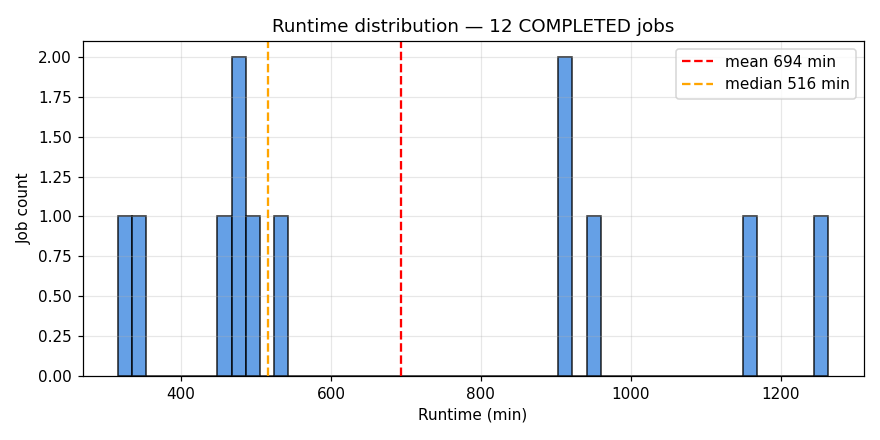
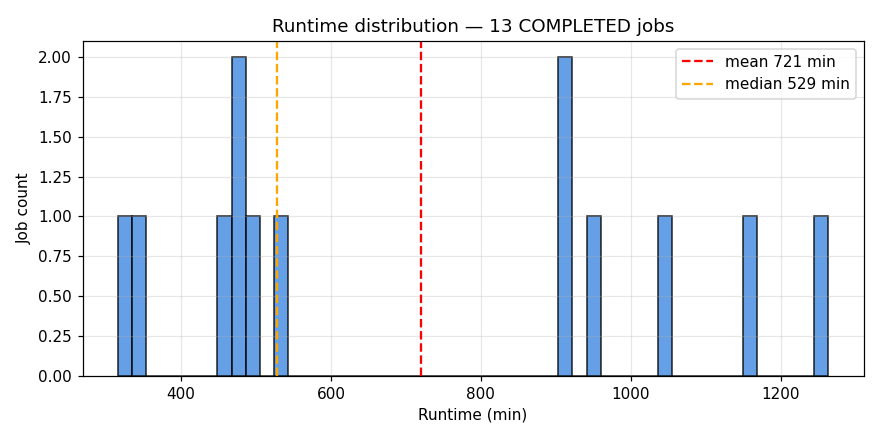
auto: 2026-09-24 11:00:16

diff --git a/index.html b/index.html
@@ -24,29 +24,29 @@ tr:nth-child(even) { background: #fafafa; }
 </style>
 </head><body>
 <h1>AF3 Campaign Dashboard</h1>
-<p class="stamp">Last updated: <strong>2026-09-24 09:59 EDT</strong> · regenerated on the cluster hourly · this page auto-reloads every 30 min</p>
+<p class="stamp">Last updated: <strong>2026-09-24 11:00 EDT</strong> · regenerated on the cluster hourly · this page auto-reloads every 30 min</p>
 
 <div class="cards">
-  <div class="card"><div class="v">829</div><div class="l">Total COMPLETED pairs</div></div>
-  <div class="card"><div class="v">568</div><div class="l">Done today</div></div>
-  <div class="card"><div class="v">747</div><div class="l">Last 24 h rate</div></div>
-  <div class="card"><div class="v">16 / 18</div><div class="l">Running / Pending now</div></div>
+  <div class="card"><div class="v">859</div><div class="l">Total COMPLETED pairs</div></div>
+  <div class="card"><div class="v">598</div><div class="l">Done today</div></div>
+  <div class="card"><div class="v">777</div><div class="l">Last 24 h rate</div></div>
+  <div class="card"><div class="v">15 / 18</div><div class="l">Running / Pending now</div></div>
 </div>
 
 <h2>Live queue</h2>
 <div class="plots">
   <div>
-    <h3>RUNNING (16)</h3>
+    <h3>RUNNING (15)</h3>
     <div class="queue-table">
       <table><thead><tr><th>Job</th><th>Elapsed</th><th>Left</th><th>Reason / Node</th></tr></thead>
-      <tbody><tr><td>af3_p052_b002</td><td>15:41:07</td><td>1-08:18:53</td><td>alphagpu53</td></tr><tr><td>af3_p050_b001</td><td>16:26:35</td><td>1-07:33:25</td><td>alphagpu52</td></tr><tr><td>af3_p052_b001</td><td>15:49:32</td><td>1-08:10:28</td><td>alphagpu54</td></tr><tr><td>af3_p049_b002</td><td>16:28:10</td><td>1-07:31:50</td><td>alphagpu53</td></tr><tr><td>af3_p049_b001</td><td>16:29:13</td><td>1-07:30:47</td><td>alphagpu52</td></tr><tr><td>af3_p051_b002</td><td>16:02:15</td><td>1-07:57:45</td><td>alphagpu51</td></tr><tr><td>af3_p048_b002</td><td>16:51:52</td><td>1-07:08:08</td><td>alphagpu53</td></tr><tr><td>af3_p051_b001</td><td>16:21:21</td><td>1-07:38:39</td><td>alphagpu54</td></tr><tr><td>af3_p048_b001</td><td>17:32:04</td><td>1-06:27:56</td><td>alphagpu51</td></tr><tr><td>af3_p047_b002</td><td>17:44:42</td><td>1-06:15:18</td><td>alphagpu51</td></tr><tr><td>af3_p045_b002</td><td>17:53:07</td><td>1-06:06:53</td><td>alphagpu51</td></tr><tr><td>af3_p047_b001</td><td>17:48:55</td><td>1-06:11:05</td><td>alphagpu54</td></tr><tr><td>af3_p046_b001</td><td>17:53:07</td><td>1-06:06:53</td><td>alphagpu52</td></tr><tr><td>af3_p045_b001</td><td>22:50:03</td><td>1-01:09:57</td><td>alphagpu52</td></tr><tr><td>af3_p044_b001</td><td>23:16:22</td><td>1-00:43:38</td><td>alphagpu53</td></tr><tr><td>af3_p042_b001</td><td>1-00:15:57</td><td>23:44:03</td><td>alphagpu54</td></tr></tbody></table>
+      <tbody><tr><td>af3_p052_b002</td><td>16:41:45</td><td>1-07:18:15</td><td>alphagpu53</td></tr><tr><td>af3_p050_b001</td><td>17:27:13</td><td>1-06:32:47</td><td>alphagpu52</td></tr><tr><td>af3_p052_b001</td><td>16:50:10</td><td>1-07:09:50</td><td>alphagpu54</td></tr><tr><td>af3_p049_b002</td><td>17:28:48</td><td>1-06:31:12</td><td>alphagpu53</td></tr><tr><td>af3_p049_b001</td><td>17:29:51</td><td>1-06:30:09</td><td>alphagpu52</td></tr><tr><td>af3_p051_b002</td><td>17:02:53</td><td>1-06:57:07</td><td>alphagpu51</td></tr><tr><td>af3_p051_b001</td><td>17:21:59</td><td>1-06:38:01</td><td>alphagpu54</td></tr><tr><td>af3_p048_b001</td><td>18:32:42</td><td>1-05:27:18</td><td>alphagpu51</td></tr><tr><td>af3_p047_b002</td><td>18:45:20</td><td>1-05:14:40</td><td>alphagpu51</td></tr><tr><td>af3_p045_b002</td><td>18:53:45</td><td>1-05:06:15</td><td>alphagpu51</td></tr><tr><td>af3_p047_b001</td><td>18:49:33</td><td>1-05:10:27</td><td>alphagpu54</td></tr><tr><td>af3_p046_b001</td><td>18:53:45</td><td>1-05:06:15</td><td>alphagpu52</td></tr><tr><td>af3_p045_b001</td><td>23:50:41</td><td>1-00:09:19</td><td>alphagpu52</td></tr><tr><td>af3_p044_b001</td><td>1-00:17:00</td><td>23:43:00</td><td>alphagpu53</td></tr><tr><td>af3_p042_b001</td><td>1-01:16:35</td><td>22:43:25</td><td>alphagpu54</td></tr></tbody></table>
     </div>
   </div>
   <div>
     <h3>PENDING (18)</h3>
     <div class="queue-table">
       <table><thead><tr><th>Job</th><th>Wait</th><th>Limit</th><th>Reason</th></tr></thead>
-      <tbody><tr><td>af3_p054_b002</td><td>0:00</td><td>2-00:00:00</td><td>(Priority)</td></tr><tr><td>af3_p054_b001</td><td>0:00</td><td>2-00:00:00</td><td>(Priority)</td></tr><tr><td>af3_p053_b002</td><td>0:00</td><td>2-00:00:00</td><td>(Priority)</td></tr><tr><td>af3_p053_b001</td><td>0:00</td><td>2-00:00:00</td><td>(Priority)</td></tr><tr><td>af3_p058_b002</td><td>0:00</td><td>2-00:00:00</td><td>(Priority)</td></tr><tr><td>af3_p058_b001</td><td>0:00</td><td>2-00:00:00</td><td>(Priority)</td></tr><tr><td>af3_p057_b002</td><td>0:00</td><td>2-00:00:00</td><td>(Priority)</td></tr><tr><td>af3_p057_b001</td><td>0:00</td><td>2-00:00:00</td><td>(Priority)</td></tr><tr><td>af3_p056_b002</td><td>0:00</td><td>2-00:00:00</td><td>(Priority)</td></tr><tr><td>af3_p056_b001</td><td>0:00</td><td>2-00:00:00</td><td>(Priority)</td></tr><tr><td>af3_p055_b002</td><td>0:00</td><td>2-00:00:00</td><td>(Priority)</td></tr><tr><td>af3_p055_b001</td><td>0:00</td><td>2-00:00:00</td><td>(Priority)</td></tr><tr><td>af3_p061_b002</td><td>0:00</td><td>2-00:00:00</td><td>(Priority)</td></tr><tr><td>af3_p061_b001</td><td>0:00</td><td>2-00:00:00</td><td>(Priority)</td></tr><tr><td>af3_p060_b002</td><td>0:00</td><td>2-00:00:00</td><td>(Priority)</td></tr><tr><td>af3_p060_b001</td><td>0:00</td><td>2-00:00:00</td><td>(Priority)</td></tr><tr><td>af3_p059_b002</td><td>0:00</td><td>2-00:00:00</td><td>(Priority)</td></tr><tr><td>af3_p059_b001</td><td>0:00</td><td>2-00:00:00</td><td>(Priority)</td></tr></tbody></table>
+      <tbody><tr><td>af3_p053_b002</td><td>0:00</td><td>2-00:00:00</td><td>(Priority)</td></tr><tr><td>af3_p053_b001</td><td>0:00</td><td>2-00:00:00</td><td>(Priority)</td></tr><tr><td>af3_p058_b002</td><td>0:00</td><td>2-00:00:00</td><td>(Priority)</td></tr><tr><td>af3_p057_b002</td><td>0:00</td><td>2-00:00:00</td><td>(Priority)</td></tr><tr><td>af3_p058_b001</td><td>0:00</td><td>2-00:00:00</td><td>(Priority)</td></tr><tr><td>af3_p057_b001</td><td>0:00</td><td>2-00:00:00</td><td>(Priority)</td></tr><tr><td>af3_p056_b002</td><td>0:00</td><td>2-00:00:00</td><td>(Priority)</td></tr><tr><td>af3_p055_b002</td><td>0:00</td><td>2-00:00:00</td><td>(Priority)</td></tr><tr><td>af3_p056_b001</td><td>0:00</td><td>2-00:00:00</td><td>(Priority)</td></tr><tr><td>af3_p055_b001</td><td>0:00</td><td>2-00:00:00</td><td>(Priority)</td></tr><tr><td>af3_p054_b002</td><td>0:00</td><td>2-00:00:00</td><td>(Priority)</td></tr><tr><td>af3_p054_b001</td><td>0:00</td><td>2-00:00:00</td><td>(Priority)</td></tr><tr><td>af3_p061_b002</td><td>0:00</td><td>2-00:00:00</td><td>(Priority)</td></tr><tr><td>af3_p061_b001</td><td>0:00</td><td>2-00:00:00</td><td>(Priority)</td></tr><tr><td>af3_p060_b002</td><td>0:00</td><td>2-00:00:00</td><td>(Priority)</td></tr><tr><td>af3_p060_b001</td><td>0:00</td><td>2-00:00:00</td><td>(Priority)</td></tr><tr><td>af3_p059_b002</td><td>0:00</td><td>2-00:00:00</td><td>(Priority)</td></tr><tr><td>af3_p059_b001</td><td>0:00</td><td>2-00:00:00</td><td>(Priority)</td></tr></tbody></table>
     </div>
   </div>
 </div>
@@ -62,7 +62,7 @@ tr:nth-child(even) { background: #fafafa; }
 </div>
 
 <h2>All-time job state breakdown</h2>
-<table><thead><tr><th>State</th><th>Count</th></tr></thead><tbody><tr><td>PENDING</td><td>18</td></tr><tr><td>RUNNING</td><td>16</td></tr><tr><td>COMPLETED</td><td>12</td></tr></tbody></table>
+<table><thead><tr><th>State</th><th>Count</th></tr></thead><tbody><tr><td>PENDING</td><td>18</td></tr><tr><td>RUNNING</td><td>15</td></tr><tr><td>COMPLETED</td><td>13</td></tr></tbody></table>
 
 <p class="stamp"><small>Generated by <code>generate.py</code> on the SUNY HPC cluster.
 Source / regeneration policy at <a href="https://github.com/matvei-lukianov/af3-dashboard">github.com/matvei-lukianov/af3-dashboard</a></small></p>
